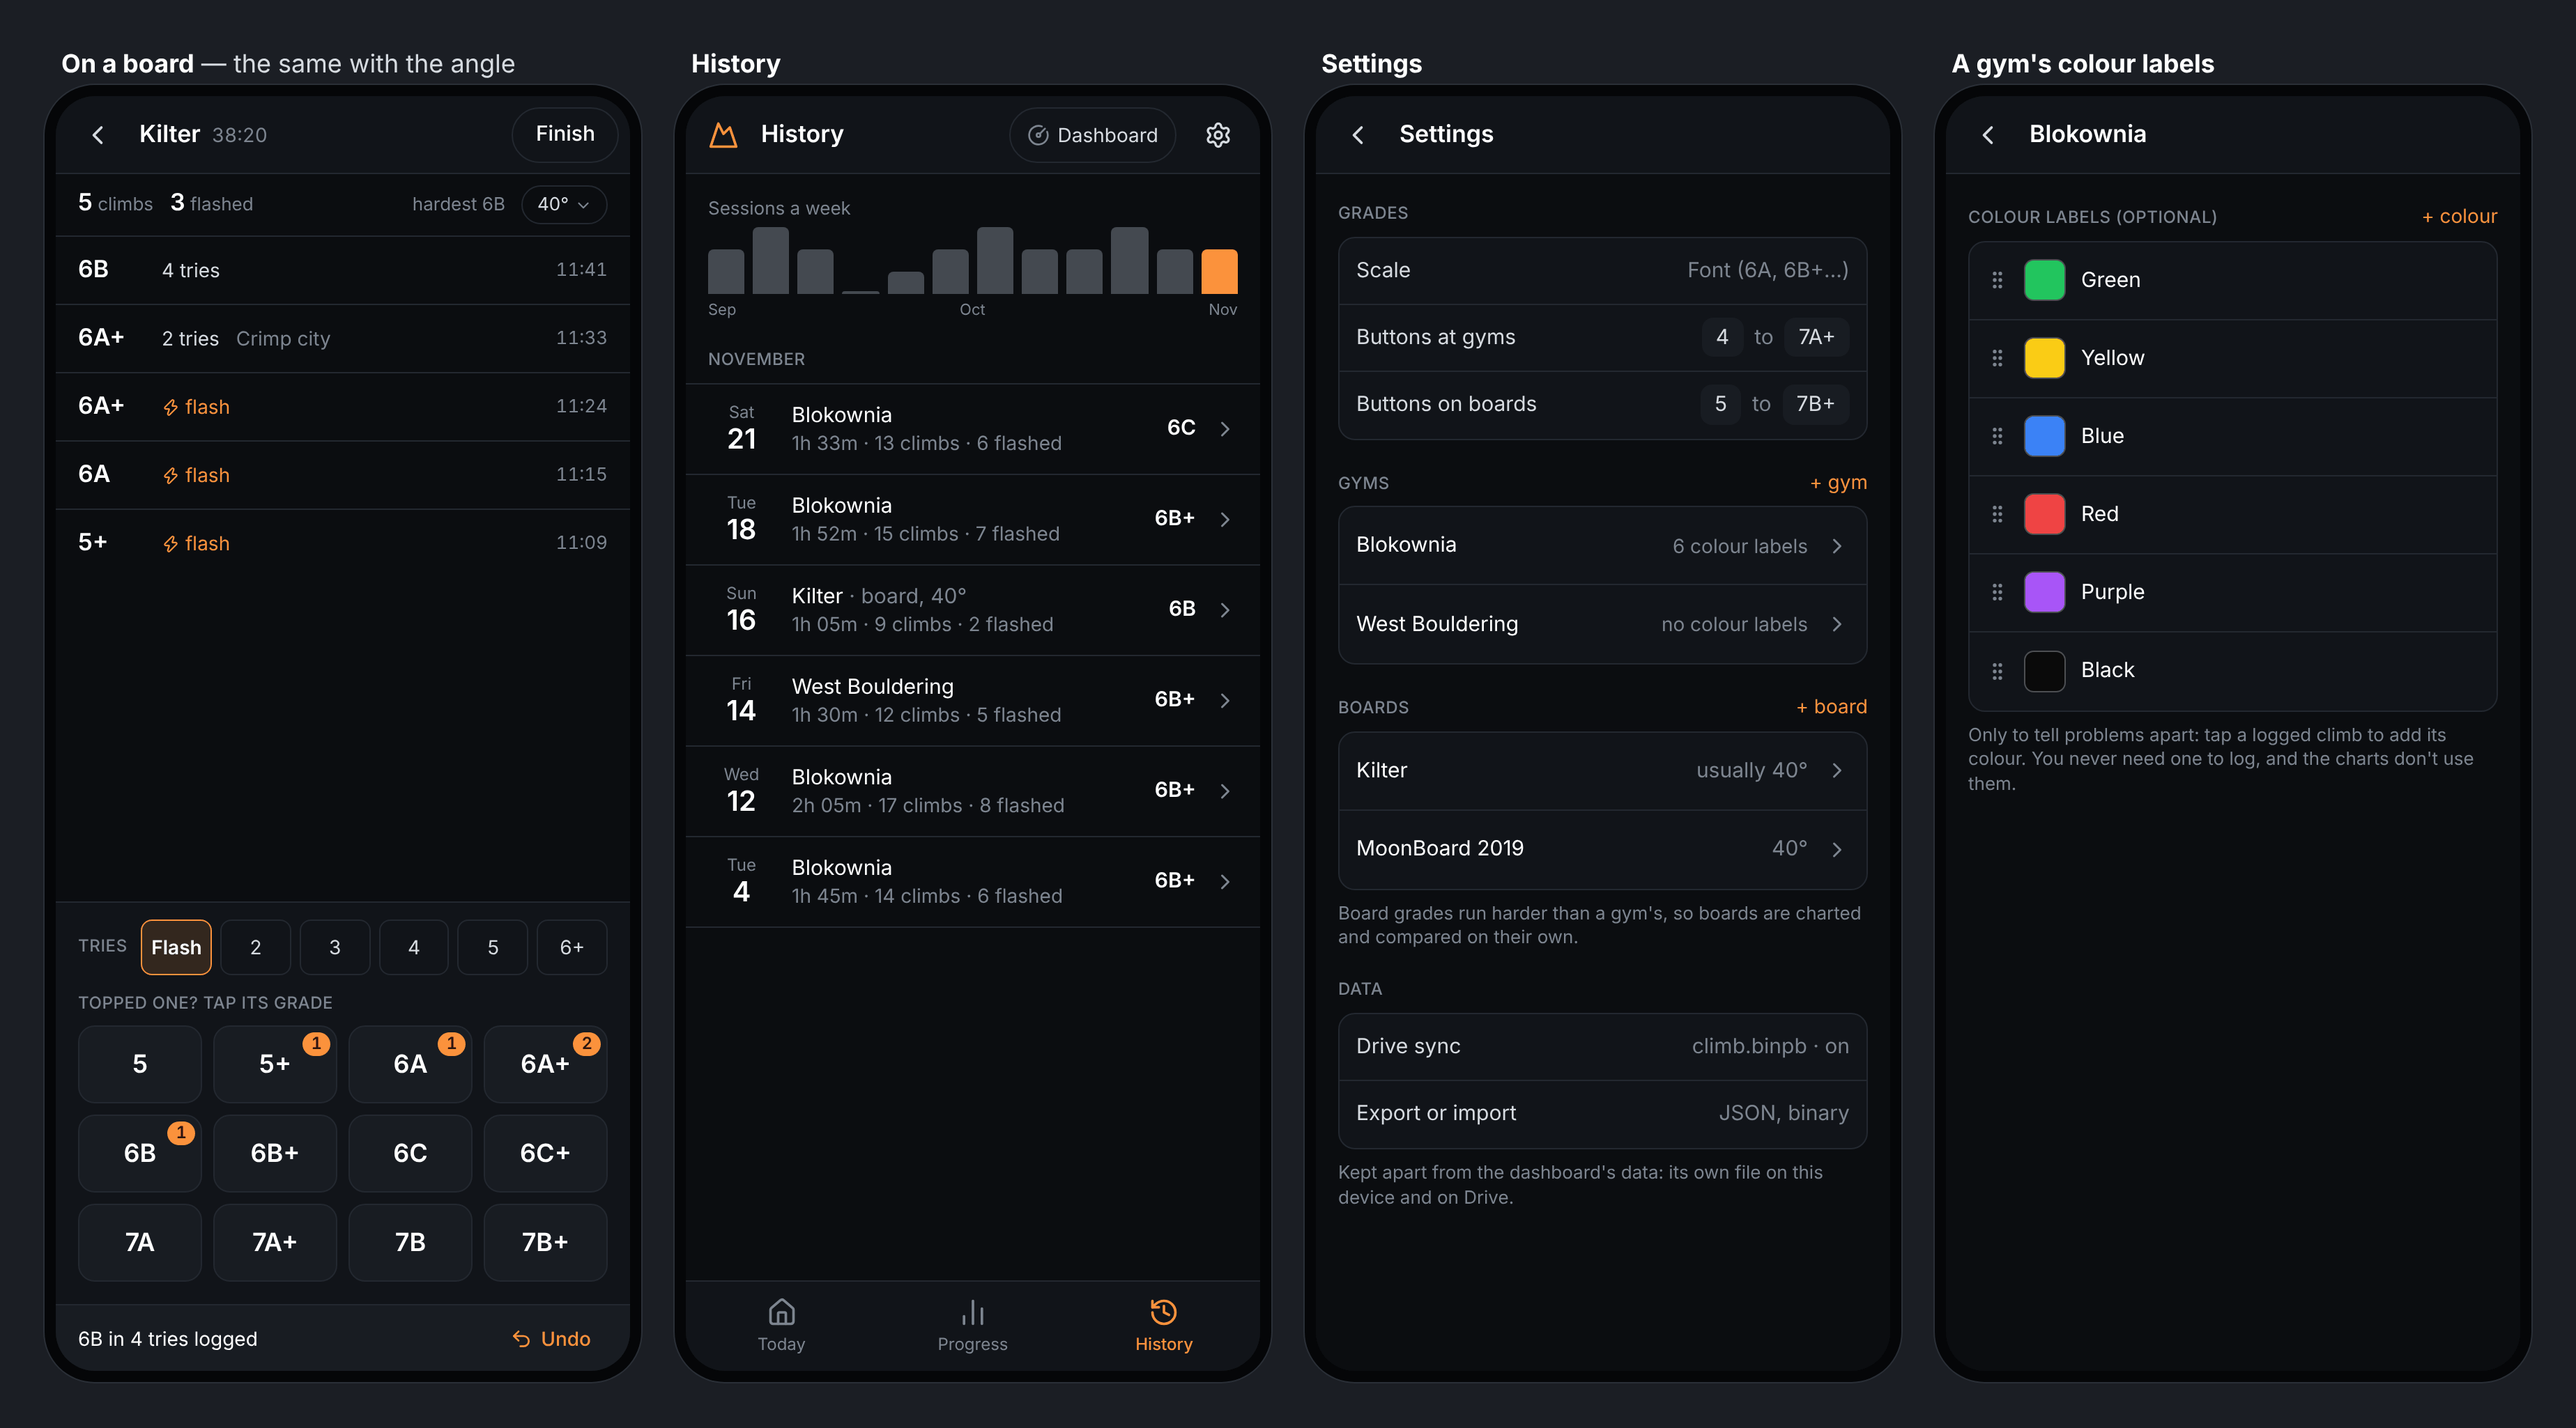
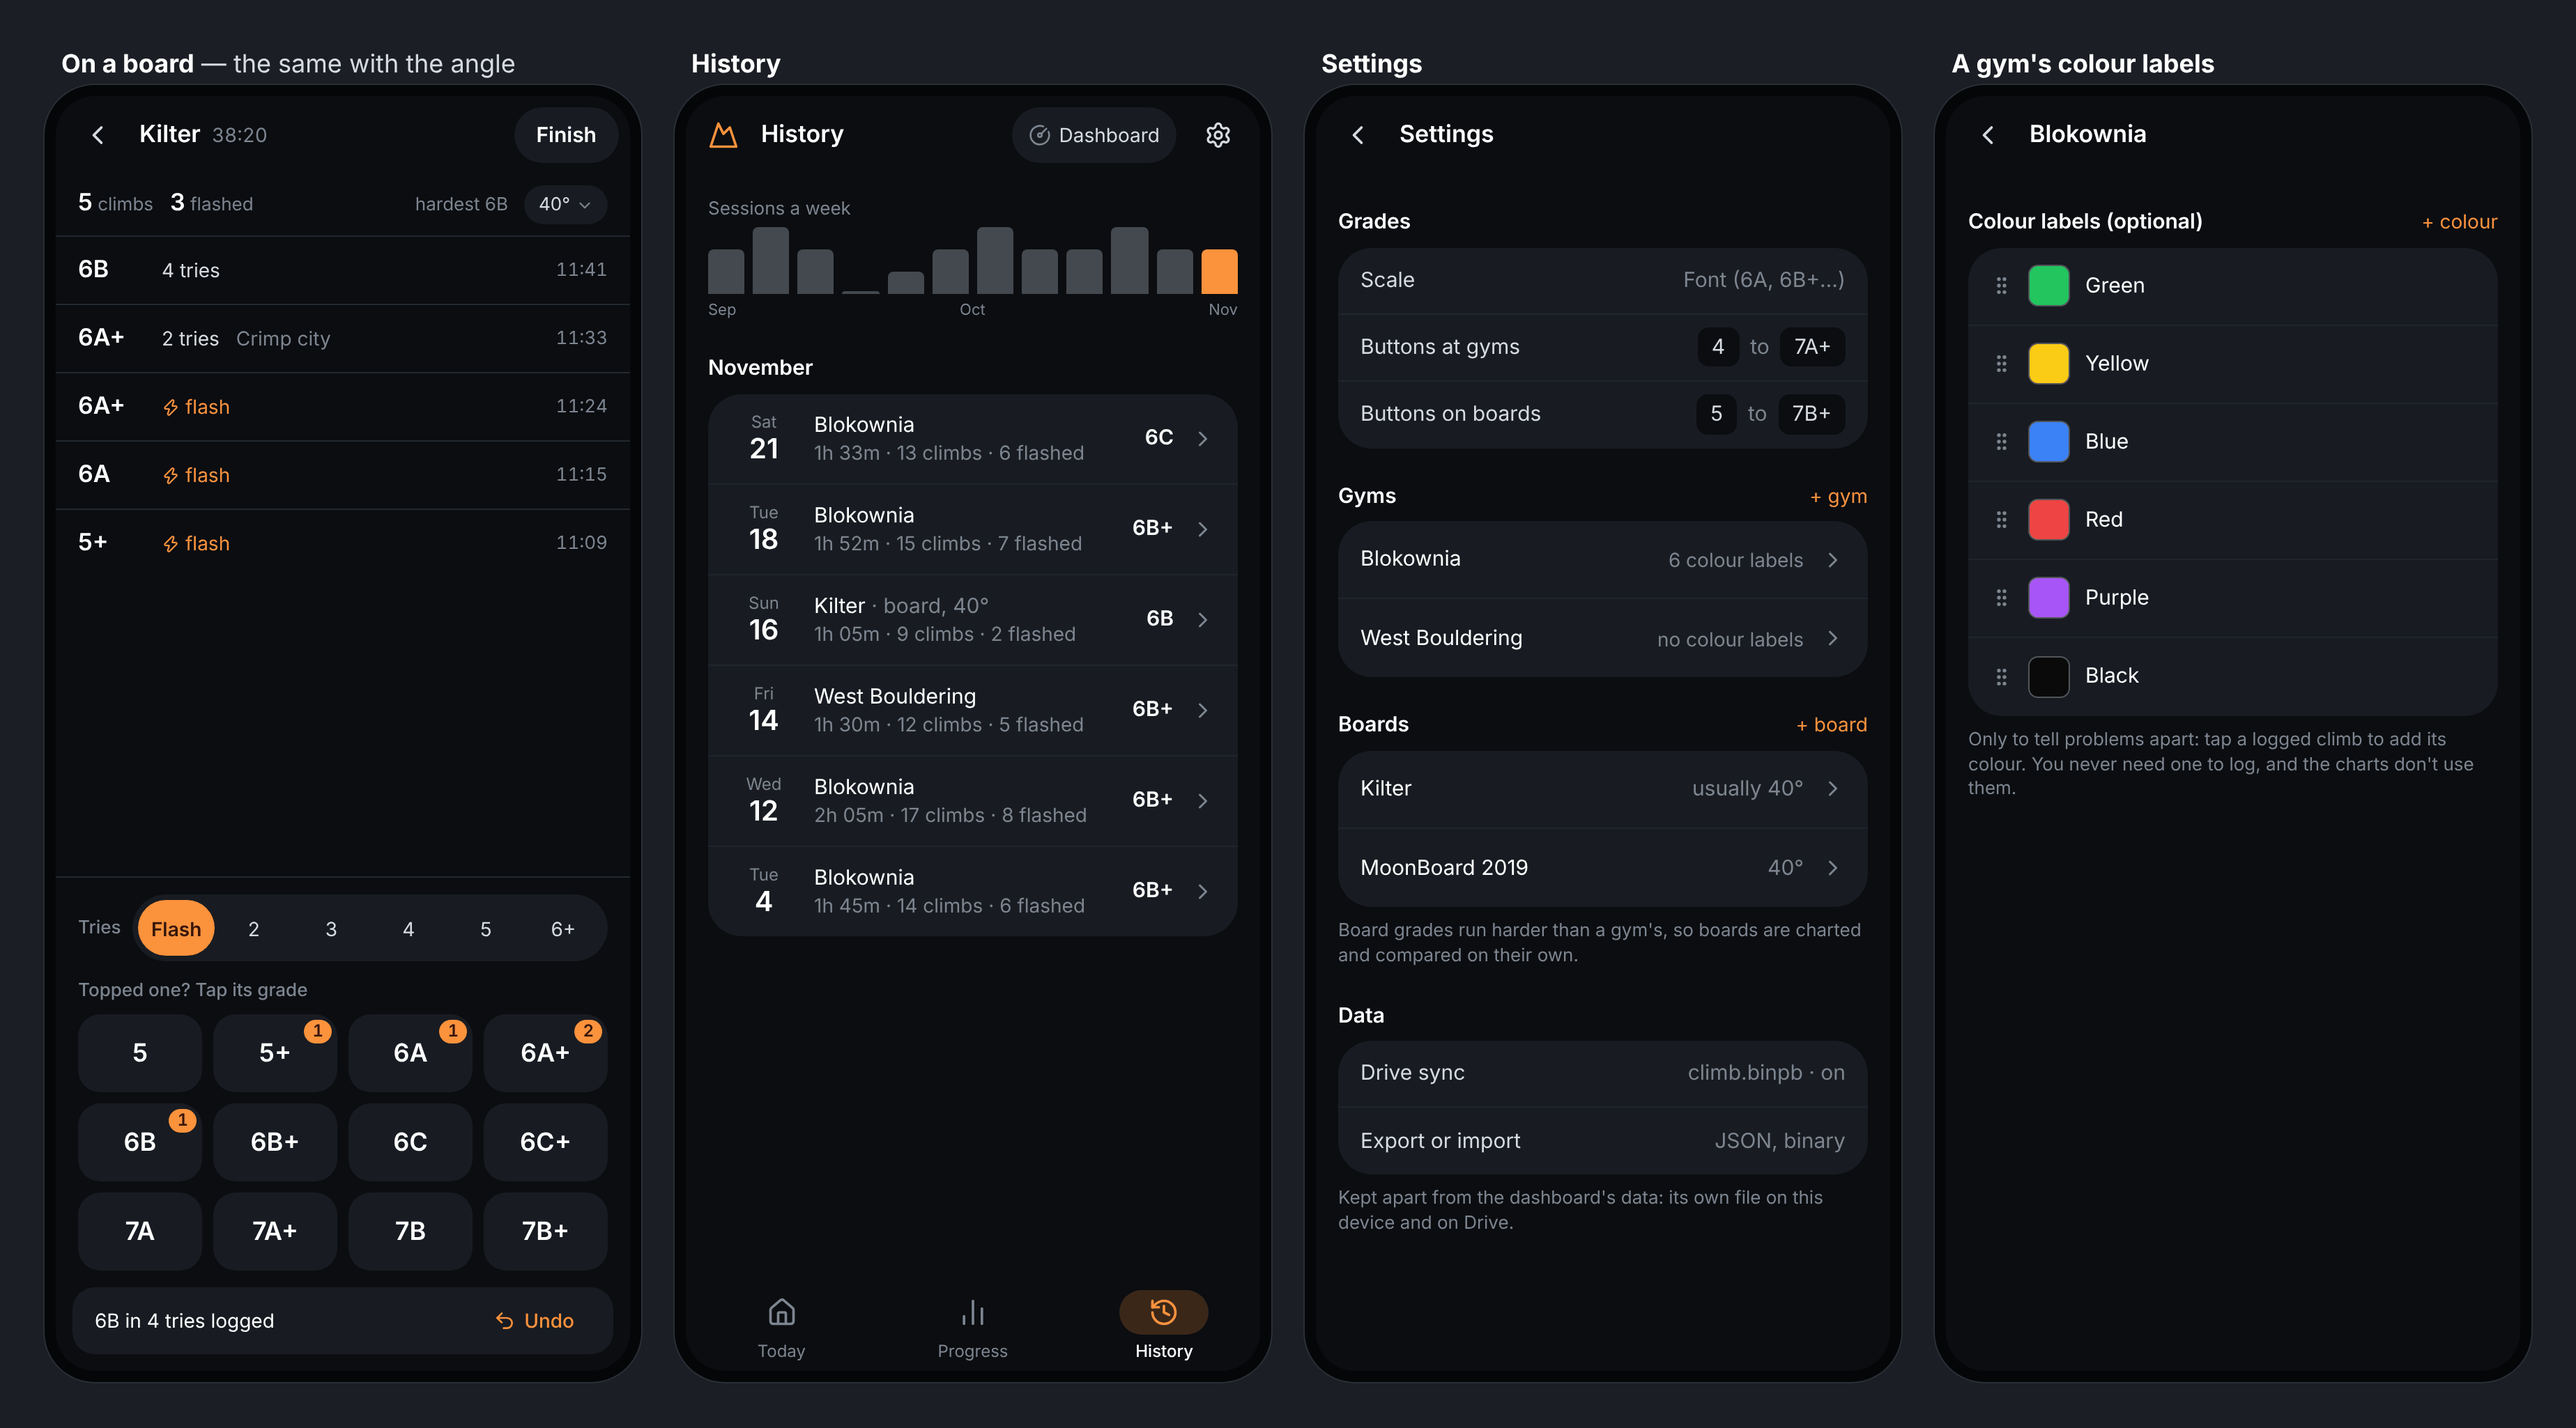
docs: the climbing log's look (Soft)
Soft is the chosen look: filled blocks with no outlines, pill choices,
rounded grade tiles, a floating undo bar. The screenshots are retaken in
it, and the chart colours are noted as checked on the filled blocks.

Claude-Session: https://claude.ai/code/session_01UgMpHjXXaGoxCsWEjdVyHT

diff --git a/docs/climbing.md b/docs/climbing.md
@@ -1,6 +1,7 @@
 # Climbing log: design
 
-**Status:** proposal, third round, after the review of the second one.
+**Status:** proposal, third round, after the review of the second one, with
+the look chosen (Soft).
 Nothing is built yet. The screenshots come from a prototype with sample data
 (branch `proto/climb`, not for merging), so both the features and the look
 can still change.
@@ -34,7 +35,7 @@ can still change.
 
 ![On a board, history, settings, a gym's colour labels](climbing/more-screens.png)
 
-![Today, at the gym and after the session in light mode](climbing/light.png)
+![Today, at the gym, after the session and Progress in light mode](climbing/light.png)
 
 ![The links between the dashboard and the log](climbing/links.png)
 
@@ -52,6 +53,7 @@ can still change.
 | Goals | None for now | Out. |
 | After a session, compare with… | Your sessions of the last month, anywhere | All your gym sessions of the last 30 days by default; only this gym's is a separate switch. |
 | The name | "Climb" | Kept. |
+| The look | Soft, of three proposed | Filled blocks with no outlines; see The look. |
 
 **Projects stay out.** In climbing, a project is a problem you keep working
 on over several sessions until you top it. The log counts tries on climbs
@@ -171,13 +173,35 @@ climbs, flashes and hardest climb.
 
 **Colours in charts:**
 - **Kept:** the dashboard's chart rules, checked with the same
-  colour-blindness and contrast tests on the dark and the light background.
+  colour-blindness and contrast tests on the surface the charts sit on (the
+  filled blocks), dark and light. In light mode, the grade blues start a
+  step darker than the dashboard's so the lightest one shows on the block.
 - **One series:** orange; the past is always a long-dashed outline in the
   text colour.
 - **Two lines:** orange and blue.
 - **Grades:** one blue, light to dark.
 - **Readable without colour:** every chart has a legend and numbers on it.
 - **Gym colours never appear in charts.**
+
+## The look
+
+Soft, picked from three proposals (bordered panes, open with no blocks, and
+soft):
+- **Blocks are filled shapes** with round corners and no outlines: a step
+  lighter than the background in dark mode, a step darker in light mode.
+- **Choices are pills** (the tries, all gyms or one, Gym or Board, the
+  period); the chosen one is filled orange.
+- **The grade buttons** are big rounded tiles; tonight's count is an orange
+  badge on each.
+- **Big buttons** (Start, Done, Save) are orange, with round corners.
+- **The undo bar floats** above the bottom edge, and the current tab has a
+  pill behind its icon.
+- **The same base as the dashboard:** its colours for the background, text
+  and lines, its font, dark and light; the log has its own accent (orange)
+  and these shapes.
+
+The prototype keeps the other two for comparison (`?look=panes`,
+`?look=open`).
 
 ## Screens
 
